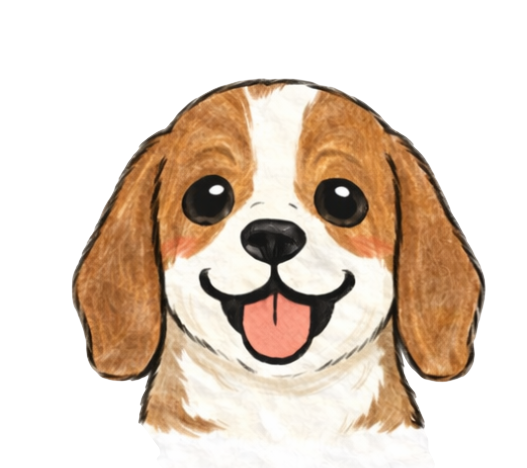
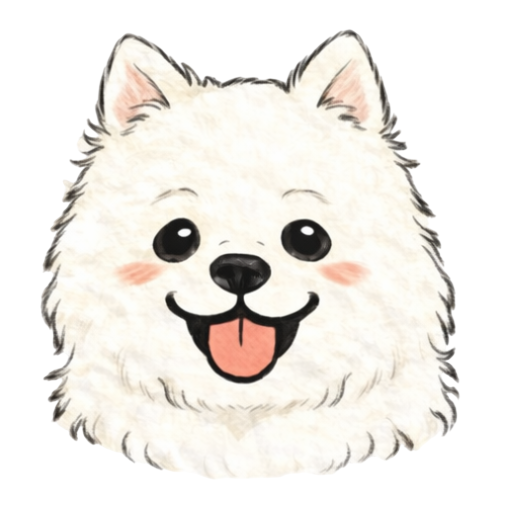
refactor: 아바타 매퍼 방식 변경 (!37)
* refactor: 아바타 매퍼 방식 변경

- 아바타는 dogN.png 형식인 것들만 사용하도록 수정

* feat: 강아지 아바타 매퍼 구현

* fix: 이미지 상대 경로를 모두 import 형식으로 변경

diff --git a/src/components/game/phases/CardShufflePhase.tsx b/src/components/game/phases/CardShufflePhase.tsx
@@ -2,13 +2,25 @@ import { useEffect, useState, useMemo } from 'react';
 import paperBg from '@/assets/bg/paper.png';
 import titleLogo from '@/assets/logo/carddistribute.png';
 import dotImage from '@/assets/logo/dot.png';
-import cardLogo1 from '@/assets/logo/cardlogo1.png'; 
-import cardLogo2 from '@/assets/logo/cardlogo2.png'; 
+import cardLogo1 from '@/assets/logo/cardlogo1.png';
+import cardLogo2 from '@/assets/logo/cardlogo2.png';
 import cardLogo3 from '@/assets/logo/cardlogo3.png';
 import aiTeacherLogo from '@/assets/logo/AIteacher.png';
 
-const DECORATION_FILES = [
-  'big_heart', 'bone', 'foot', 'heart', 'pencil_blue', 'pencil_green', 'pencil_red', 'star'
+import { getAvatarSrc, getTotalAvatars } from '@/lib/avatarMapper';
+
+// Decorations Import
+import bone from '@/assets/decorations/bone.png';
+import foot from '@/assets/decorations/foot.png';
+import heart from '@/assets/decorations/heart.png';
+import bigHeart from '@/assets/decorations/big_heart.png';
+import pencilRed from '@/assets/decorations/pencil_red.png';
+import pencilBlue from '@/assets/decorations/pencil_blue.png';
+import pencilGreen from '@/assets/decorations/pencil_green.png';
+import star from '@/assets/decorations/star.png';
+
+const DECORATION_IMAGES = [
+  bigHeart, bone, foot, heart, pencilBlue, pencilGreen, pencilRed, star
 ];
 
 const MOCK_CARDS = [
@@ -37,7 +49,7 @@ const CardShufflePhase = ({ onFinish }: Props) => {
   const backgroundDecorations = useMemo(() => {
     return Array.from({ length: 20 }).map((_, i) => ({
       id: i,
-      image: `/src/assets/decorations/${DECORATION_FILES[Math.floor(Math.random() * DECORATION_FILES.length)]}.png`,
+      image: DECORATION_IMAGES[Math.floor(Math.random() * DECORATION_IMAGES.length)],
       top: `${Math.random() * 100}%`,
       left: `${Math.random() * 100}%`,
       rotation: `${Math.random() * 360}deg`,
@@ -47,22 +59,28 @@ const CardShufflePhase = ({ onFinish }: Props) => {
 
   const cardsData = useMemo(() => {
     const dogIndices = new Set<number>();
-    while (dogIndices.size < TARGET_COUNT) dogIndices.add(Math.floor(Math.random() * 29) + 1);
+    const totalAvatars = getTotalAvatars();
+    // 안전장치: 아바타가 충분하지 않으면 1로 fallback
+    const maxIndex = totalAvatars > 0 ? totalAvatars : 1;
+
+    while (dogIndices.size < TARGET_COUNT) {
+      dogIndices.add(Math.floor(Math.random() * maxIndex) + 1);
+    }
     const dogArray = Array.from(dogIndices);
     return Array.from({ length: TOTAL_CARDS }).map((_, i) => {
       const isTarget = i < TARGET_COUNT;
       return {
         id: i, isTarget,
         frontImage: isTarget ? MOCK_CARDS[i] : MOCK_CARDS[0],
-        backImage: isTarget ? `/src/assets/dog/dog${dogArray[i]}.png` : `/src/assets/dog/dog1.png`,
+        backImage: isTarget ? getAvatarSrc(dogArray[i]) : getAvatarSrc(1),
       };
     });
   }, []);
 
   const getShufflePos = (index: number) => {
     if (!isShuffling) return { x: 0, y: 0, r: 0 };
-    const randomSeed = index * shuffleTick * 123.45; 
-    const randomX = (Math.sin(randomSeed) * 50); 
+    const randomSeed = index * shuffleTick * 123.45;
+    const randomX = (Math.sin(randomSeed) * 50);
     const randomY = (Math.cos(randomSeed * 0.5) * 50);
     const randomR = (Math.sin(randomSeed * 0.2) * 40);
     return { x: randomX, y: randomY, r: randomR };
@@ -74,14 +92,14 @@ const CardShufflePhase = ({ onFinish }: Props) => {
 
     const stopShuffleTimer = setTimeout(() => { clearInterval(shuffleInterval); setIsShuffling(false); }, 2000);
     const dealTimer = setTimeout(() => setIsDealt(true), 2500);
-    
+
     const revealStartTimer = setTimeout(() => {
       clearInterval(dotInterval); setDotCount(0);
       for (let i = 0; i < TARGET_COUNT; i++) { setTimeout(() => setVisibleCount((prev) => prev + 1), i * 200); }
     }, 4000);
 
-    const outroTimer1 = setTimeout(() => setOutroStep(1), 6000); 
-    const outroTimer2 = setTimeout(() => setOutroStep(2), 7500); 
+    const outroTimer1 = setTimeout(() => setOutroStep(1), 6000);
+    const outroTimer2 = setTimeout(() => setOutroStep(2), 7500);
     const outroTimer3 = setTimeout(() => setOutroStep(3), 9000); // 9초에 "킹받을까!?" 등장
 
     // ⚡ [시간 단축] 9.8초: 0.8초 뒤에 바로 AI 등장 (기존 10.5초에서 단축)
@@ -101,7 +119,7 @@ const CardShufflePhase = ({ onFinish }: Props) => {
   }, [onFinish]);
 
   return (
-    <div 
+    <div
       style={{
         position: 'absolute', top: 0, left: 0, width: '100%', height: '100%',
         backgroundImage: `url(${paperBg})`, backgroundSize: 'cover', backgroundPosition: 'center',
@@ -148,29 +166,29 @@ const CardShufflePhase = ({ onFinish }: Props) => {
         }}
       >
         {/* 🚨 수정: 크기를 600px로 더욱 확대 (초대형) */}
-        <img 
-          src={aiTeacherLogo} 
-          alt="AI Teacher" 
-          style={{ width: '600px', height: 'auto', filter: 'drop-shadow(0 20px 40px rgba(0,0,0,0.6))' }} 
+        <img
+          src={aiTeacherLogo}
+          alt="AI Teacher"
+          style={{ width: '600px', height: 'auto', filter: 'drop-shadow(0 20px 40px rgba(0,0,0,0.6))' }}
         />
       </div>
 
       {/* 🃏 카드 무대 */}
-      <div 
-        style={{ 
-          position: 'relative', width: '600px', height: '400px', perspective: '1000px', zIndex: 10, 
+      <div
+        style={{
+          position: 'relative', width: '600px', height: '400px', perspective: '1000px', zIndex: 10,
           marginTop: '140px',
-          transition: 'all 1s', 
-          opacity: outroStep > 0 ? 0.3 : 1, 
-          filter: outroStep > 0 ? 'blur(4px)' : 'none' 
+          transition: 'all 1s',
+          opacity: outroStep > 0 ? 0.3 : 1,
+          filter: outroStep > 0 ? 'blur(4px)' : 'none'
         }}
       >
         {cardsData.map((card, index) => {
           const shufflePos = getShufflePos(index);
           const col = index % 4; const row = Math.floor(index / 4);
-          const gridX = (col - 1.5) * 150; const gridY = (row - 0.5) * 220; 
+          const gridX = (col - 1.5) * 150; const gridY = (row - 0.5) * 220;
           let x = 0, y = 0, rotate = 0, opacity = 1;
-          if (isShuffling) { x = shufflePos.x; y = shufflePos.y; rotate = shufflePos.r; } 
+          if (isShuffling) { x = shufflePos.x; y = shufflePos.y; rotate = shufflePos.r; }
           else if (isDealt) { if (card.isTarget) { x = gridX; y = gridY; rotate = 0; } else { x = 0; y = 0; opacity = 0; } }
           const isFlipped = card.isTarget && index < visibleCount;
           return (

diff --git a/src/pages/setup/Setup.tsx b/src/pages/setup/Setup.tsx
@@ -15,21 +15,7 @@ import rightArrowImg from '@/assets/logo/rightarrow.png';
 import SetupDecorations from './components/SetupDecorations';
 
 // 🐶 강아지 이미지 로딩
-const rawImages = import.meta.glob('@/assets/dog/*.{png,jpg,jpeg}', { eager: true, query: '?url', import: 'default' }) as Record<string, string>;
-const sortedImageUrls = Object.entries(rawImages)
-  .sort(([pathA], [pathB]) => {
-    const numA = parseInt(pathA.match(/dog(\d+)/)?.[1] || '0', 10);
-    const numB = parseInt(pathB.match(/dog(\d+)/)?.[1] || '0', 10);
-    return numA - numB;
-  })
-  .map(([_, url]) => url);
-
-const AVATARS = sortedImageUrls.map((imgSrc, index) => ({
-  id: index + 1,
-  name: `멍멍이 ${index + 1}`,
-  desc: '준비 완료!',
-  icon: imgSrc,
-}));
+import { AVATAR_LIST } from '@/lib/avatarMapper';
 
 export default function Setup() {
   const navigate = useNavigate();
@@ -37,21 +23,21 @@ export default function Setup() {
 
   // 1. GameStore
   const { roomConfig, roomTitle, setRoomInfo, reset } = useGameStore(); // 👈 reset 추가
-  
+
   // 2. UserStore
-  const { 
-    setNickname: setStoreNickname, 
+  const {
+    setNickname: setStoreNickname,
     setAvatarId: setStoreAvatarId,
-    setUserStatus, 
-    setRoomId      
+    setUserStatus,
+    setRoomId
   } = useUserStore();
 
   const [nickname, setNickname] = useState("");
   const [avatarIdx, setAvatarIdx] = useState(0);
   const [isLoading, setIsLoading] = useState(false);
 
-  const selectedDog = AVATARS[avatarIdx] || { id: 1, name: '?', icon: '' };
-  const totalDogs = AVATARS.length;
+  const selectedDog = AVATAR_LIST[avatarIdx] || { id: 1, name: '?', icon: '' };
+  const totalDogs = AVATAR_LIST.length;
 
   // 기본 설정
   const defaultConfig = {
@@ -81,7 +67,7 @@ export default function Setup() {
       alert("잘못된 접근입니다.");
       navigate('/');
     }
-    
+
     console.log("Setup Page Check:", { paramRoomId, isRealHost: isHost, staleConfig: !!roomConfig });
   }, [isHost, paramRoomId, roomConfig, navigate]);
 
@@ -111,8 +97,8 @@ export default function Setup() {
       // ----------------------------------------------------
       // ⭐ isHost가 false면 이 블록은 절대 실행되지 않음!
       if (isHost) {
-        if (!roomConfig) return; 
-        
+        if (!roomConfig) return;
+
         console.log("📡 [Host] 방 생성 요청 중...");
         const res = await createRoomApi({
           title: roomTitle || "즐거운 게임",
@@ -120,7 +106,7 @@ export default function Setup() {
           nickname: nickname,
           avatarId: selectedDog.id,
         });
-        
+
         currentRoomId = res.roomId;
         // myToken = res.token;
         console.log("✅ 방 생성 완료:", currentRoomId);
@@ -137,22 +123,22 @@ export default function Setup() {
       }
 
       console.log("🔌 소켓 연결 시도...", { currentRoomId, myToken });
-      
-      socket.auth = { token: myToken }; 
+
+      socket.auth = { token: myToken };
       socket.connect();
 
       socket.emit('join_room', {
         roomId: currentRoomId,
         nickname: nickname,
         avatarId: selectedDog.id,
-        userToken: myToken || undefined, 
+        userToken: myToken || undefined,
       }, (response: any) => {
         console.log("📩 Gateway 응답:", response);
         setIsLoading(false);
 
         if (response.status === 'success') {
           const user = response.data;
-          
+
           setStoreNickname(user.nickname);
           setStoreAvatarId(user.avatarId);
           setRoomId(currentRoomId);
@@ -170,8 +156,8 @@ export default function Setup() {
           }
 
           if (!isHost && user.userToken) {
-             console.log("🔑 게스트 토큰 저장:", user.userToken);
-             socket.auth = { token: user.userToken }; 
+            console.log("🔑 게스트 토큰 저장:", user.userToken);
+            socket.auth = { token: user.userToken };
           }
 
           console.log("🚀 게임방으로 이동!");

diff --git a/src/components/game/phases/LobbyPhase.tsx b/src/components/game/phases/LobbyPhase.tsx
@@ -16,6 +16,8 @@ import { useNavigate } from 'react-router-dom';
 import { motion } from 'framer-motion';
 import logoOut from '@/assets/logo/logo_out.png';
 import logoSetting from '@/assets/logo/logo_setting.png';
+import lobbyLogo from '@/assets/logo/lobby_logo.png';
+import { getAvatarSrc } from '@/lib/avatarMapper';
 
 // ⭐ 부모(GameRoom)에게 받을 데이터 타입 정의
 interface LobbyProps {
@@ -28,7 +30,14 @@ interface LobbyProps {
   // onStartGame?: () => void;
 }
 
-const LobbyPhase = ({ users, isHost, maxStorytellers, TEST_MODE, setUsers, roomId }: LobbyProps) => {
+const LobbyPhase = ({ users: rawUsers, isHost, maxStorytellers, TEST_MODE, setUsers, roomId }: LobbyProps) => {
+  // 🐶 Avatar ID -> Image 변환 
+  // 이제 전역 Mapper를 사용합니다.
+  const users = rawUsers.map(user => ({
+    ...user,
+    avatar: getAvatarSrc(user.avatarId) || user.avatar
+  }));
+
   console.log("🔍 유저 데이터 구조 확인:", users);
   const { nickname: myNickname, avatarId: myAvatarId } = useUserStore(); // Guest 입장 테스트용
 
@@ -211,18 +220,18 @@ const LobbyPhase = ({ users, isHost, maxStorytellers, TEST_MODE, setUsers, roomI
   const handleStartGame = () => {
     console.log("🚀 게임 시작 버튼 클릭됨");
     if (!isHost) return;
-    
+
     // (선택) 인원 수 체크 등을 여기서 미리 막아도 됨
     // const playerCnt = users.filter(u => u.role === 'PLAYER').length;
     // if (playerCnt < 4) return alert("플레이어가 부족합니다!");
 
     if (TEST_MODE) {
-       // 테스트 모드면 바로 다음 페이즈로 강제 이동
-       // (부모 GameRoom의 devSwitchPhase 등을 호출해야 하는데, 여기선 socket만 보냄)
-       alert("테스트 모드: 개발자 컨트롤 패널을 이용하세요.");
+      // 테스트 모드면 바로 다음 페이즈로 강제 이동
+      // (부모 GameRoom의 devSwitchPhase 등을 호출해야 하는데, 여기선 socket만 보냄)
+      alert("테스트 모드: 개발자 컨트롤 패널을 이용하세요.");
     } else {
-       // 📡 백엔드에 시작 신호 전송
-       socket.emit('start_game', { roomId });
+      // 📡 백엔드에 시작 신호 전송
+      socket.emit('start_game', { roomId });
     }
   };
 
@@ -268,7 +277,7 @@ const LobbyPhase = ({ users, isHost, maxStorytellers, TEST_MODE, setUsers, roomI
               {/* 1층: 유틸리티 라인 (로고, 코드, 나가기) */}
               <div className={styles.topRow}>
                 <div className={styles.topLeft}>
-                  <img src="/src/assets/logo/lobby_logo.png" alt="Logo" className={styles.headerLogo} />
+                  <img src={lobbyLogo} alt="Logo" className={styles.headerLogo} />
 
                   <div className={styles.codeContainer} onClick={handleCopyCode}>
                     <div className={styles.tape}></div>

diff --git a/src/lib/avatarMapper.ts b/src/lib/avatarMapper.ts
@@ -1,0 +1,39 @@
+
+// 🐶 강아지 이미지 로딩 및 매핑 로직 (전역 사용)
+// Setup.tsx와 LobbyPhase.tsx 등에서 동일한 ID <-> 이미지 매핑을 보장하기 위함입니다.
+
+const rawImages = import.meta.glob('@/assets/dog/*.{png,jpg,jpeg}', { eager: true, query: '?url', import: 'default' }) as Record<string, string>;
+
+// 이미지 정렬 로직 (Setup.tsx와 동일)
+// 파일명에 숫자가 있으면 그 숫자로 정렬하고, 없으면(0) 맨 앞으로 오게 됩니다.
+const sortedImageUrls = Object.entries(rawImages)
+    .filter(([path]) => {
+        // "dog" 뒤에 숫자가 붙은 파일만 허용 (예: dog1.png)
+        // shiba.png 등은 제외됨
+        return /dog\D?\d+\.(png|jpg|jpeg)$/i.test(path);
+    })
+    .sort(([pathA], [pathB]) => {
+        const numA = parseInt(pathA.match(/dog\D?(\d+)/)?.[1] || '0', 10);
+        const numB = parseInt(pathB.match(/dog\D?(\d+)/)?.[1] || '0', 10);
+
+        // 숫자가 같으면(둘 다 0이거나 같은 번호) 문자열 정렬로 순서 보장 (Determinism)
+        if (numA === numB) {
+            return pathA.localeCompare(pathB);
+        }
+        return numA - numB;
+    })
+    .map(([_, url]) => url);
+
+export const AVATAR_LIST = sortedImageUrls.map((imgSrc, index) => ({
+    id: index + 1,
+    name: `멍멍이 ${index + 1}`,
+    desc: '준비 완료!',
+    icon: imgSrc,
+}));
+
+export const getAvatarSrc = (avatarId: number): string => {
+    const avatar = AVATAR_LIST.find(a => a.id === avatarId);
+    return avatar ? avatar.icon : '';
+};
+
+export const getTotalAvatars = () => AVATAR_LIST.length;

diff --git a/src/constants/judges.ts b/src/constants/judges.ts
@@ -1,8 +1,12 @@
 //심사위원 캐릭터 정보 저장
 
+import lion from '@/assets/judges/lion.png';
+import rabbit from '@/assets/judges/rabbit.png';
+import bear from '@/assets/judges/bear.png';
+
 export const JUDGE_CHARACTERS = [
-  { id: 0, name: '엄격한 사자', avatar: '@/assets/judges/lion.png', desc: '논리적인 글을 좋아합니다.' , prompt:''},
-  { id: 1, name: '감성적인 토끼', avatar: '@/assets/judges/rabbit.png', desc: '슬픈 이야기를 좋아해요.' , prompt:''},
-  { id: 2, name: '유머러스한 곰', avatar: '@/assets/judges/bear.png', desc: '웃긴 게 최고야!' , prompt:''},
+  { id: 0, name: '엄격한 사자', avatar: lion, desc: '논리적인 글을 좋아합니다.', prompt: '' },
+  { id: 1, name: '감성적인 토끼', avatar: rabbit, desc: '슬픈 이야기를 좋아해요.', prompt: '' },
+  { id: 2, name: '유머러스한 곰', avatar: bear, desc: '웃긴 게 최고야!', prompt: '' },
   // ...
 ];

diff --git a/src/constants/cards.ts b/src/constants/cards.ts
@@ -1,11 +1,14 @@
 //카드에 들어갈 이미지들 저장
 
-
+import card01 from '@/assets/cards/card_01.png';
+import card02 from '@/assets/cards/card_02.png';
+import card03 from '@/assets/cards/card_03.png';
+import card04 from '@/assets/cards/card_04.png';
 
 export const CARD_LIST = [
-  { id: 0, src: '@/assets/cards/card_01.png', alt: '비 오는 거리' },
-  { id: 1, src: '@/assets/cards/card_02.png', alt: '웃는 강아지' },
-  { id: 2, src: '@/assets/cards/card_03.png', alt: '무너진 성' },
-  { id: 3, src: '@/assets/cards/card_04.png', alt: '우주 비행사' },
+  { id: 0, src: card01, alt: '비 오는 거리' },
+  { id: 1, src: card02, alt: '웃는 강아지' },
+  { id: 2, src: card03, alt: '무너진 성' },
+  { id: 3, src: card04, alt: '우주 비행사' },
   // 
 ]
